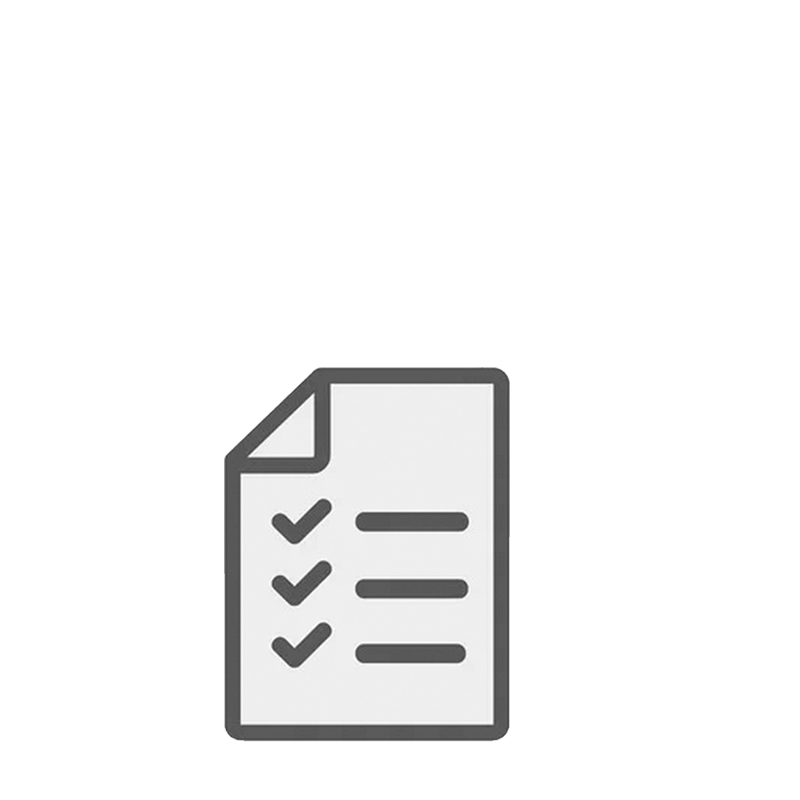
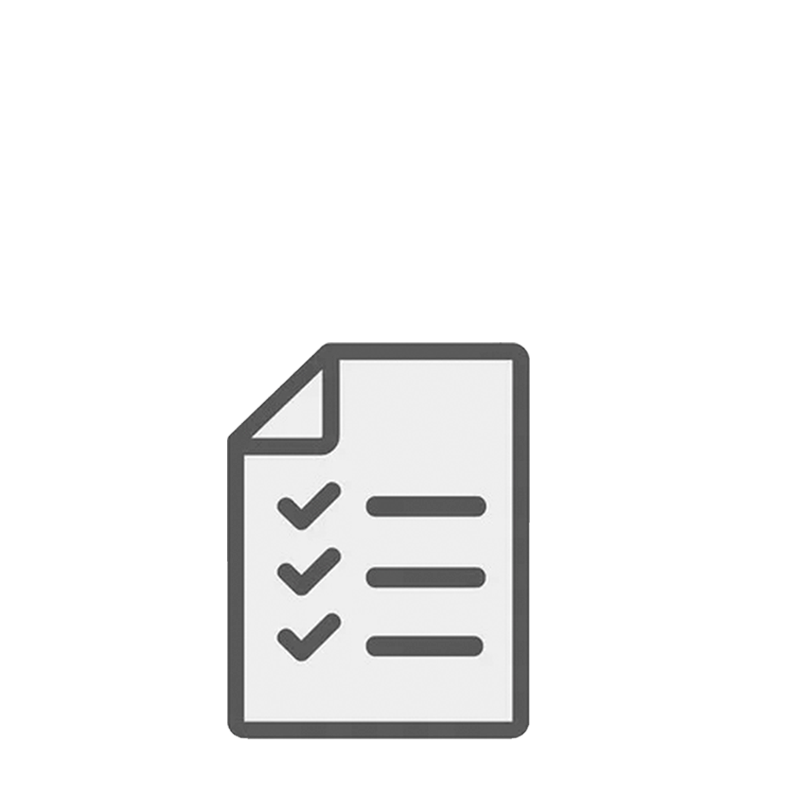
nuevas modificaciones

Changed region(s): [[0.2812, 0.4062, 0.6875, 0.9375]]

diff --git a/index.css b/index.css
@@ -21,27 +21,22 @@ nav {
 }
 
 
-
 .listnavigation {
     list-style: none;
     display: flex;
-justify-content: space-around;
-align-items: center;
+    justify-content: space-around;
+    width: 42%;
     font-family:'kanit', sans-serif; ;
     font-size: 30px;
-    color: #FF5E5B;
     position: absolute;
-margin-left: 250px;}
+    margin-left: 250px;
 
-.li {
-    color: #FFFFEA;
 }
 
-
-
 .listnavigation a {
-    color: black;
-    text-decoration: none;
+color: #FFED66;
+text-decoration: none;
+
 }
 
 .header {
@@ -90,6 +85,17 @@ body {
     width: 40%;
 }
 
+.conteiner-atrapalos {
+    display: flex;
+    align-items: center;
+    justify-content: center;
+    flex-direction: column;
+    text-align: center;
+    color: #e6625f;
+
+  
+}
+
 .conteiner-atrapalos img {
     width: 650px;
     margin-left: 80px;
@@ -103,6 +109,13 @@ body {
 
 }
 
+.button:hover {
+    color: #00CECB;
+    background-color:#FFED66;
+    cursor: pointer;
+    transition: 0.5s;
+}
+
 .conteiner-atrapalos button {
 width:  30%;
 height: 50px;
@@ -113,8 +126,8 @@ outline: 0;
 border-radius: 10px;
 font-size: 30px;
 font-weight: bolder;
-margin-left: 250px;
-
+margin-left: 80px;
+margin-bottom: 50px;
 
 }
 
@@ -131,6 +144,7 @@ align-items: center;
 justify-content: center;
 border-radius: 50px;
 margin-top: 80px;
+text-align: center;
 
 }
 
@@ -185,11 +199,10 @@ color: #FFFFEA;
 }
 
 .containerinfo {
+    text-align: center;
     display: flex;
+    align-items: center;
     justify-content: center
-    
-    
-
 }
 
 .containerinfo p {
@@ -199,13 +212,10 @@ color: #FFFFEA;
 }
 
 .containerinfo img {
-    margin-right: 80px;
-}
+margin-right: 30px;}
 
 
-.containerinfo h3 {
-    margin-right: 55px;
-}
+
 
 
 
@@ -228,19 +238,12 @@ color: #FFFFEA;
     justify-content: center;
     align-items: center;
     flex-direction: column;
+
 }
 
-
-
-
-
-
-
-
-
-
-
-
+.bife img {
+    margin-left: 20px;
+}
 
 .seccion3 {
     background-color: #FF5E5B;
@@ -271,6 +274,7 @@ justify-content: space-around;
 align-items: center;
 flex-wrap: wrap;
 flex-direction: row;
+text-align: center;
 }
 
 .containerimginfo {
@@ -294,29 +298,23 @@ font-size: 20px;
     margin-bottom: 48px;
 }
 
-.moto  {
-    display: flex;
-    align-items: center;
-    justify-content: center;
-    flex-direction: column;
-}
 
 .moto img {
-    margin-right: 70px;
+    margin-right: 10px;
 }
 
-
-.containerimginfo img {
-    margin-left: 40px;
-}
 
 .documento img {
-    margin-left: 74px;
-    
+margin: 0%;   
+margin-left: 5px; 
+
 }
 
 .ramen img {
     margin: 0px;
-    margin-left: 30px;
+    margin-left: 20px;
 }
 
+.vaso img {
+    margin-left: 20px;
+}

diff --git a/index.html b/index.html
@@ -1,6 +1,6 @@
 <html>
     <head>
-        <link rel="stylesheet" href="INDEX.CSS">
+        <link rel="stylesheet" href="index.css">
         <link rel="preconnect" href="https://fonts.googleapis.com">
         <link rel="preconnect" href="https://fonts.gstatic.com" crossorigin>
         <link href="https://fonts.googleapis.com/css2?family=Bebas+Neue&family=Kanit:wght@800;900&display=swap" rel="stylesheet">
@@ -15,8 +15,8 @@
     <img src="./logo.png" alt="">
     <nav>
         <ul class="listnavigation">
-            <li class="inicio"><a href="">Inicio-</a></li>
-            <li><a href="">Productos-</a></li>
+            <li><a href="">Inicio</a></li>
+            <li><a href="">Productos</a></li>
             <li><a href="">Contactanos!</a></li>
 
         </ul>
@@ -37,7 +37,7 @@
     Tenemos una gran variedad de Sabores para que los pruebes! 
 
 </p>
-<button>VER SABORES</button>
+<button  class="button">VER SABORES</button>
             </div>
 <img src="./ramen.jpg" alt="ramenn">
         </div>
